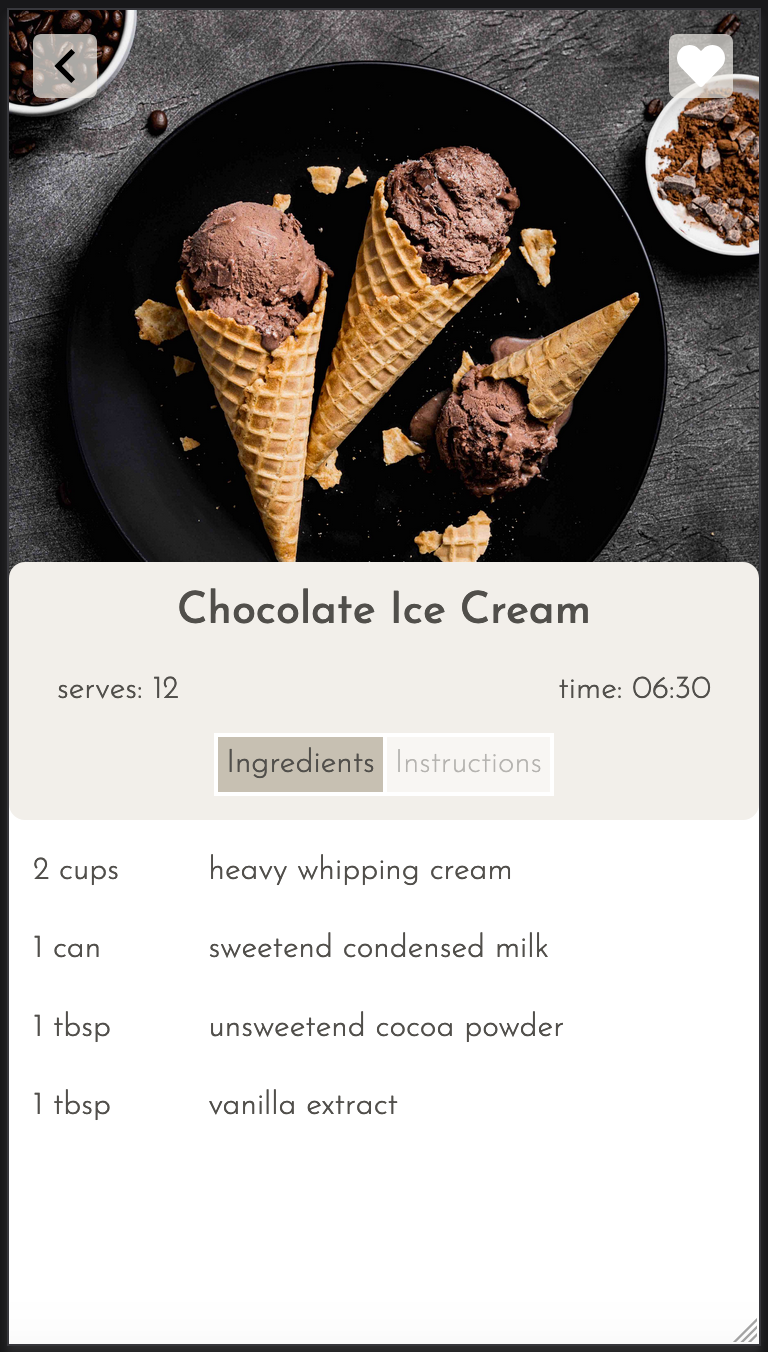
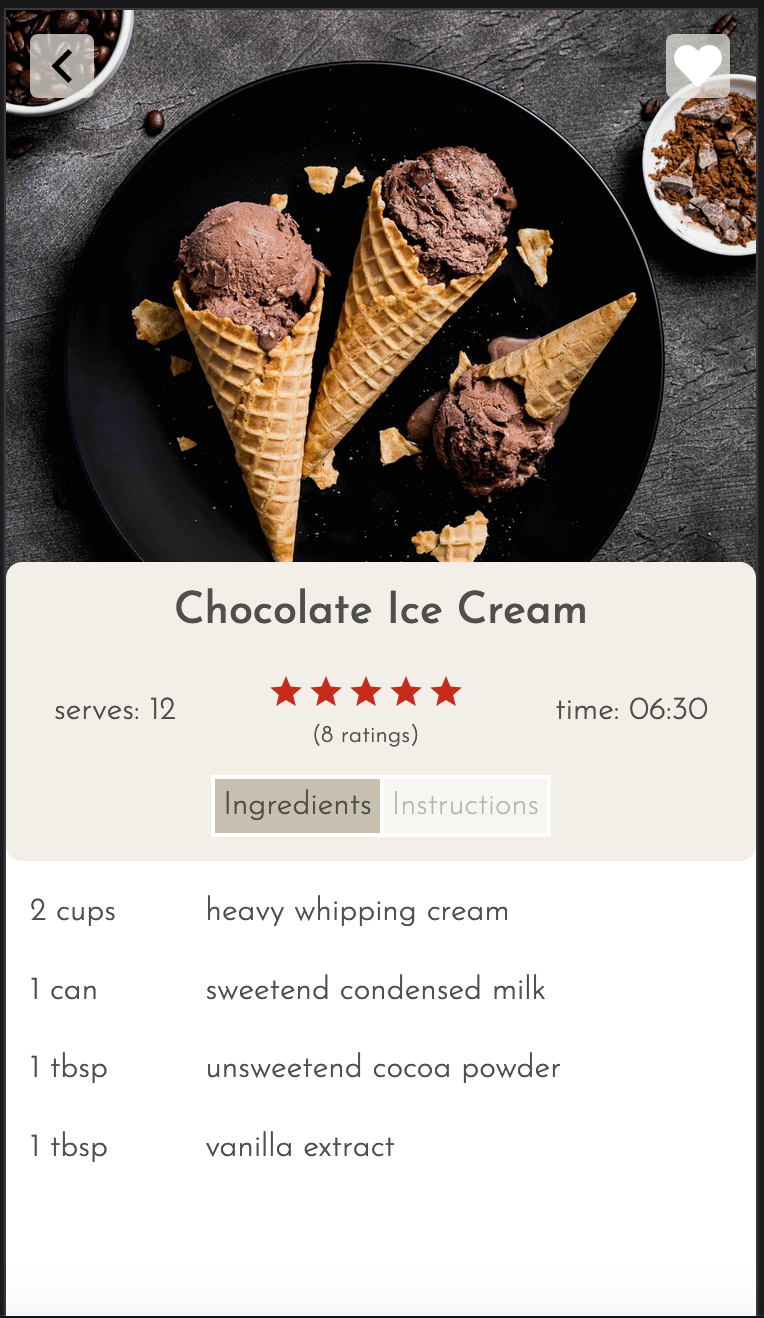
Edit Read.me

diff --git a/README.md b/README.md
@@ -7,7 +7,7 @@
 
 ## Get Cooking
 
-No matter whether your're a pro or an absolute beginner at cooking, 'get cooking' will become your best friend in the kitchen. You can easily bookmark your favourite recipes that were created by members of the community and also create and submit your own recipes which in turn might inspire others to try out new recipes.
+No matter whether your're a pro or an absolute beginner at cooking, 'get cooking' will become your best friend in the kitchen. You can easily bookmark your favourite recipes that were created by members of the community and also create and submit your own recipes which in turn might inspire others to try out new recipes. You can also rate the recipes, filter the recipes and edit your user details.
 
 This app was developed as my capstone project during the final four weeks of the neuefische Web Development Bootcamp in May, 2020.
 
@@ -23,7 +23,7 @@ pw: capstone123
 ## Some impressions of the app
 
 <div align="center">
-  <img src="images/../src/images/get-cooking_gif.gif"
+  <img src="images/../src/images/get-cooking_screenrecording.gif"
      height="400px"/>
 </div>
 <div align="center">
@@ -31,11 +31,13 @@ pw: capstone123
      height="400px"/>
   <img src="images/../src/images/get-cooking_overview.png"
      height="400px"/>
+       <img src="images/../src/images/get-cooking_create.png"
+     height="400px"/>
 </div>
 <div align="center">     
   <img src="images/../src/images/get-cooking_details.png"
      height="400px"/>
-  <img src="images/../src/images/get-cooking_create.png"
+  <img src="images/../src/images/get-cooking_rating.png"
      height="400px"/>
   <img src="images/../src/images/get-cooking_profile.png"
      height="400px"/>
